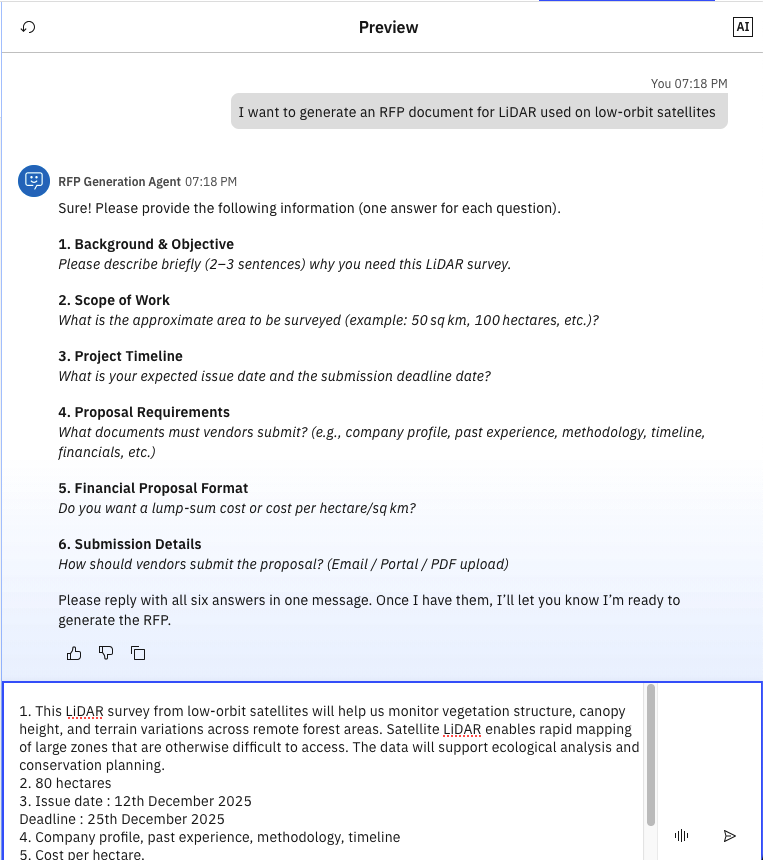
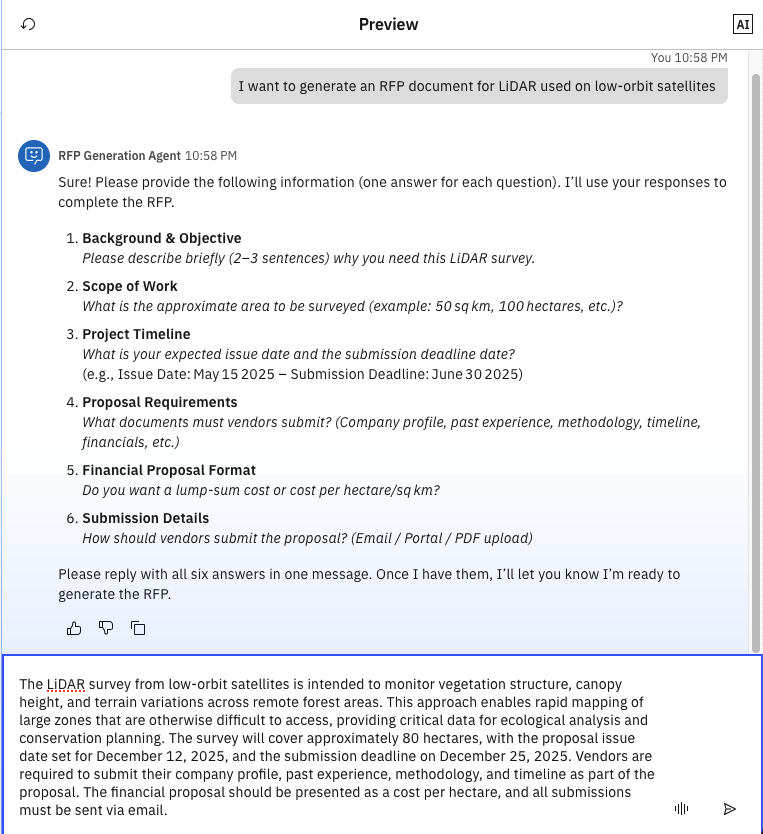
rfp agent latest version

diff --git a/labs/Lab 2 - RFP Generation/README_v2.md b/labs/Lab 2 - RFP Generation/README_v2.md
@@ -237,20 +237,9 @@ Now we are all set to test our agent, to do so let start by chatting in the prev
     ![Agent Testing](images/img14.png)
 
 
-2. The agent will list out all the required questiosn to be answered which is essential for creating the RFP. Enter the below details.
+2. The agent will list out all the required questiosn to be answered which is essential for creating the RFP. Enter the below response which contains the answer to all the questions asked.
     ```
-    1. This LiDAR survey from low-orbit satellites will help us monitor vegetation structure, canopy height, and terrain variations across remote forest areas. Satellite LiDAR enables rapid mapping of large zones that are otherwise difficult to access. The data will support ecological analysis and conservation planning. 
-
-    2. 80 hectares 
-
-    3. Issue date : 12th December 2025 
-    Deadline : 25th December 2025 
-
-    4. Company profile, past experience, methodology, timeline 
-
-    5. Cost per hectare. 
-
-    6. Via email
+    The LiDAR survey from low-orbit satellites is intended to monitor vegetation structure, canopy height, and terrain variations across remote forest areas. This approach enables rapid mapping of large zones that are otherwise difficult to access, providing critical data for ecological analysis and conservation planning. The survey will cover approximately 80 hectares, with the proposal issue date set for December 12, 2025, and the submission deadline on December 25, 2025. Vendors are required to submit their company profile, past experience, methodology, and timeline as part of the proposal. The financial proposal should be presented as a cost per hectare, and all submissions must be sent via email.
     ```
     ![Agent Testing](images/test_img1.png)
 
